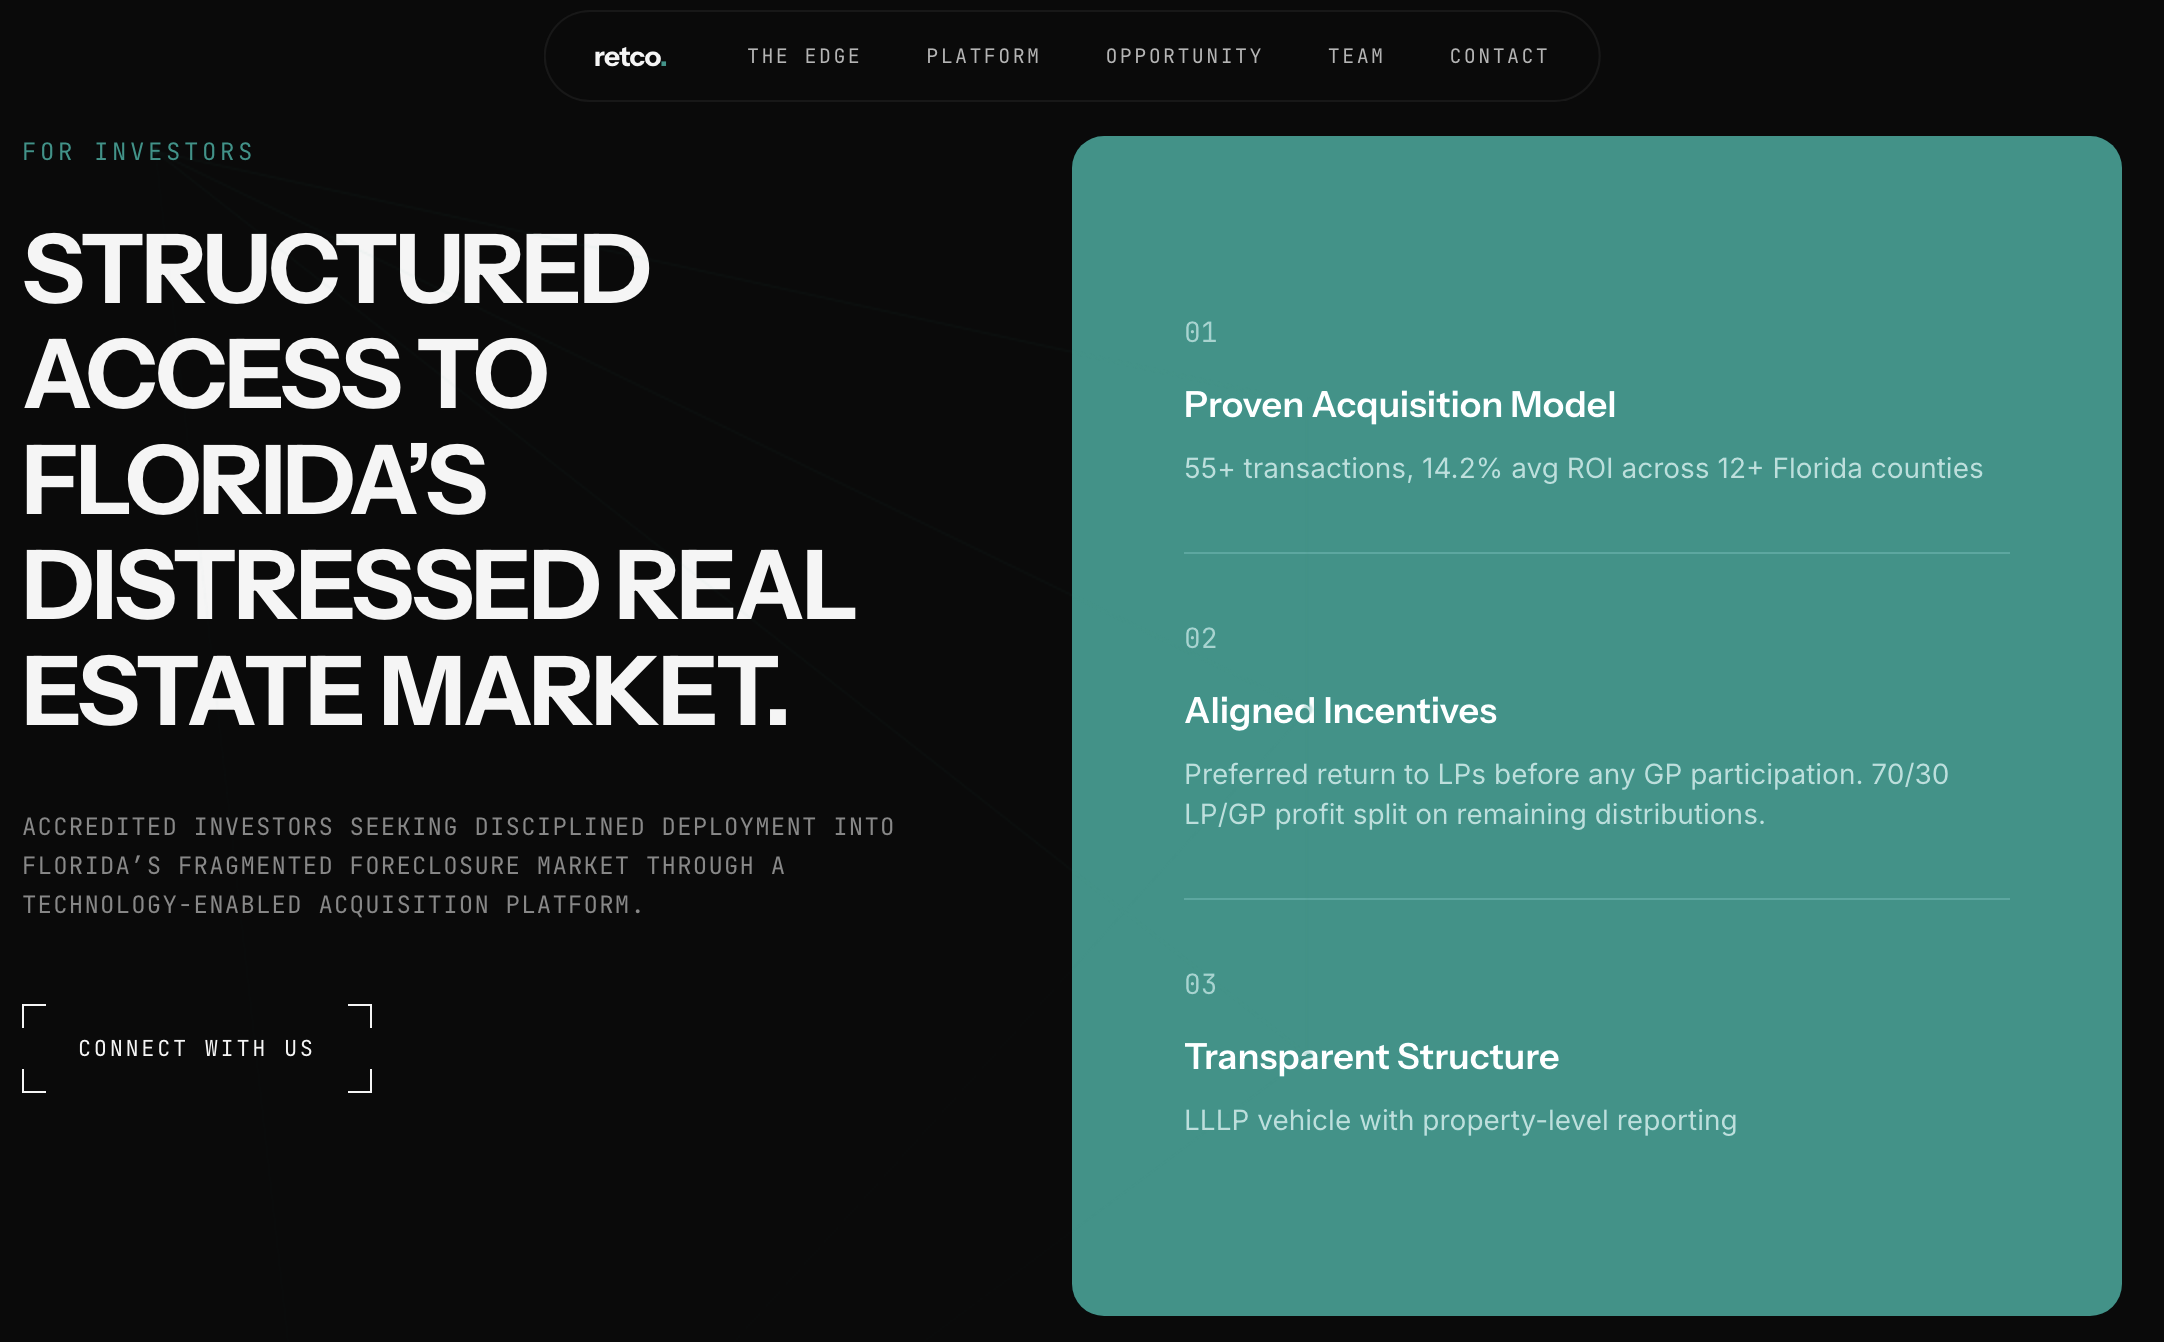
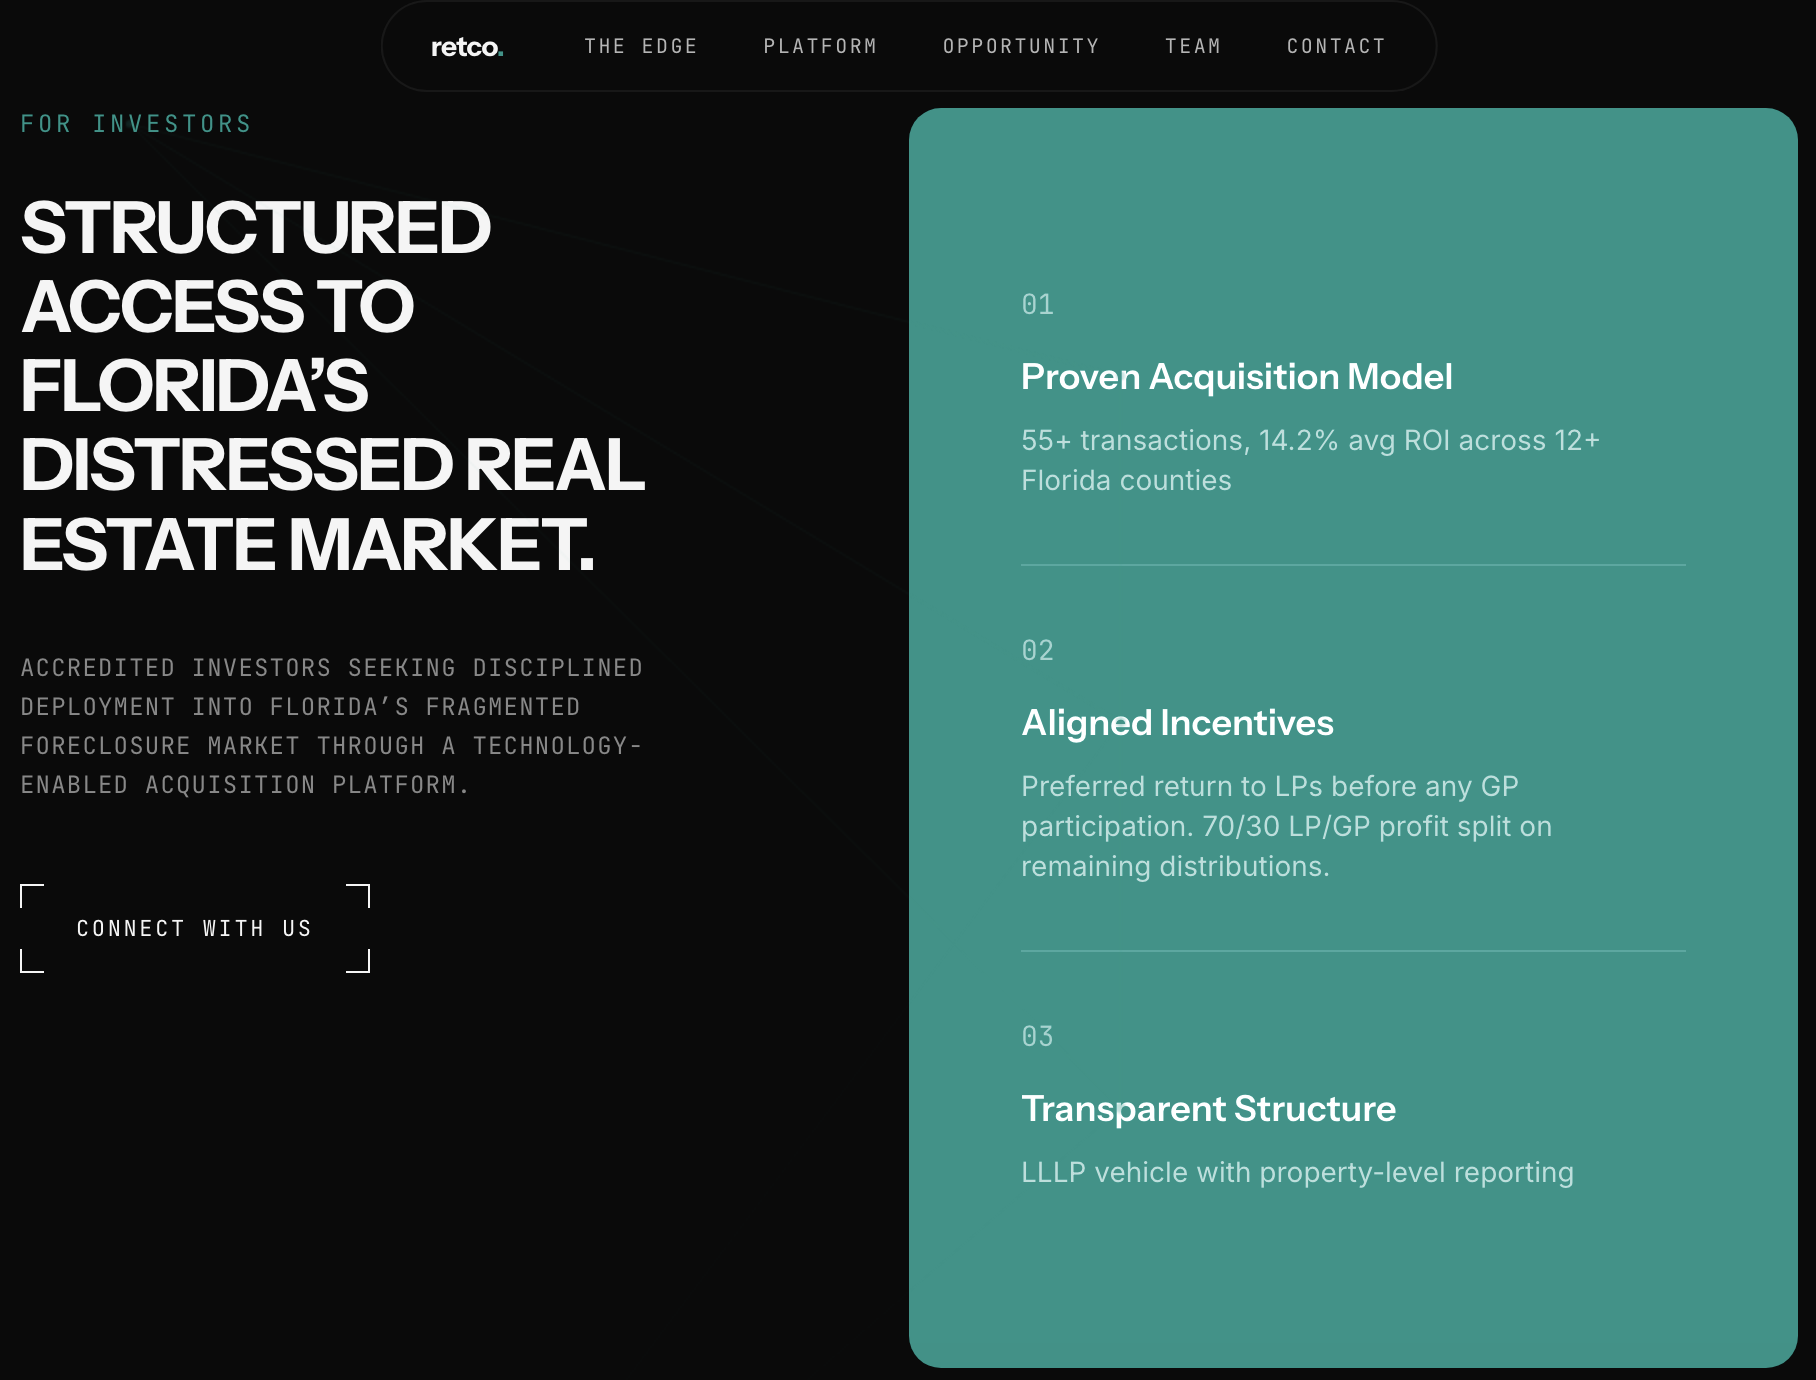
feat: add NEO at SODO + Dania Canal Homes, update Edgewood Oaks image

diff --git a/salazarandco-website.html b/salazarandco-website.html
@@ -1868,7 +1868,7 @@ a, button, [role="button"], input, select, textarea, label {
 
       <div class="stack-card" style="z-index: 30; background: #faf8f5;">
         <div class="stack-card-inner">
-          <div class="stack-card-image" data-label="EDGEWOOD OAKS" style="background: url('images/micasa-siteplan.jpg') center/cover no-repeat;"></div>
+          <div class="stack-card-image" data-label="EDGEWOOD OAKS" style="background: url('images/edgewood-oaks-hero.jpg') center/cover no-repeat;"></div>
           <div class="stack-card-content">
             <span class="stack-card-tag">Ft. Lauderdale Development</span>
             <div class="stack-card-name">EDGEWOOD OAKS — Townhomes</div>
@@ -1878,7 +1878,31 @@ a, button, [role="button"], input, select, textarea, label {
         </div>
       </div>
 
-      <div class="stack-card" style="z-index: 40; background: #f5f8f5;">
+      <div class="stack-card" style="z-index: 40; background: #f5f8fa;">
+        <div class="stack-card-inner">
+          <div class="stack-card-image" data-label="NEO AT SODO" style="background: #1a2530 url('images/neo-at-sodo-hero.jpg') center/cover no-repeat;"></div>
+          <div class="stack-card-content">
+            <span class="stack-card-tag">Orlando Mixed-Use</span>
+            <div class="stack-card-name">NEO at SODO — 3509 S Orange Ave</div>
+            <p class="stack-card-desc">Ground-up mixed-use development in Orlando's SoDo (South of Downtown) district — residential over ground-floor retail, currently under construction.</p>
+            <a href="#" class="stack-card-link">View Project <span class="arrow"><svg viewBox="0 0 24 24"><path d="M7 17L17 7M9 7h8v8"/></svg></span></a>
+          </div>
+        </div>
+      </div>
+
+      <div class="stack-card" style="z-index: 50; background: #f5f8f7;">
+        <div class="stack-card-inner">
+          <div class="stack-card-image" data-label="DANIA CANAL HOMES" style="background: #1c2e35 url('images/dania-canal-homes.jpg') center/cover no-repeat;"></div>
+          <div class="stack-card-content">
+            <span class="stack-card-tag">Dania Beach — Waterfront Development</span>
+            <div class="stack-card-name">Dania Canal Homes — 9 Single-Family Residences</div>
+            <p class="stack-card-desc">Ground-up development of 9 waterfront single-family homes on the Dania Canal at 2900 SW 45 St, Dania Beach. Currently in design and pre-construction. Listed with Douglas Elliman.</p>
+            <a href="#" class="stack-card-link">View Project <span class="arrow"><svg viewBox="0 0 24 24"><path d="M7 17L17 7M9 7h8v8"/></svg></span></a>
+          </div>
+        </div>
+      </div>
+
+      <div class="stack-card" style="z-index: 60; background: #f5f8f5;">
         <div class="stack-card-inner">
           <div class="stack-card-image" data-label="UBIICA" style="background: url('images/ListingPhoto.jpg') center/cover no-repeat;"></div>
           <div class="stack-card-content">
@@ -1891,7 +1915,7 @@ a, button, [role="button"], input, select, textarea, label {
       </div>
 
       <!-- Invisible trigger: scrolls into Ubiica's sticky position to fold it like the others -->
-      <div class="stack-card stack-card-ghost" style="z-index: 50;"></div>
+      <div class="stack-card stack-card-ghost" style="z-index: 70;"></div>
     </div>
 
     <div class="projects-cta reveal-scale" style="padding: 0 0 60px;">